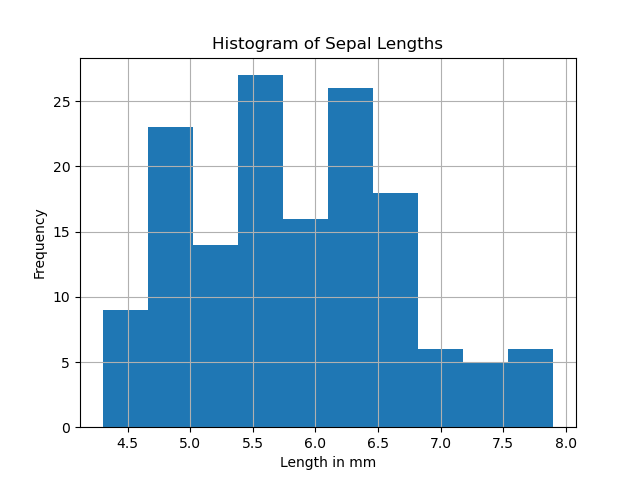
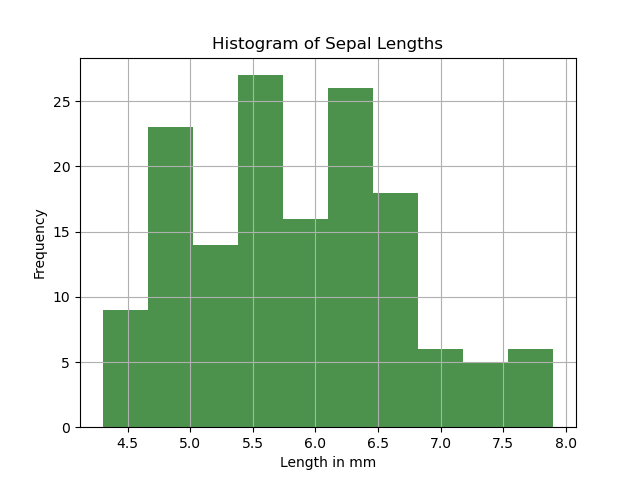
petal_length_hist and petal_width_hist created

Changed region(s): [[0.1562, 0.1562, 0.875, 0.9062]]

diff --git a/analysis.py b/analysis.py
@@ -21,7 +21,7 @@ setosa = iris[iris["species"]== "setosa"]  #seperates the species for later anal
 versicolor = iris[iris["species"]== "versicolor"]
 virginica = iris[iris["species"]== "virginica"]
 
-iris["sepal_length"].hist()  # isolates sepal length column
+iris["sepal_length"].hist(color="darkgreen", alpha=0.7)  # isolates sepal length column
 #setosa["sepal_length"].hist()
 #versicolor["sepal_length"].hist()
 #virginica["sepal_length"].hist()
@@ -31,9 +31,23 @@ plt.title("Histogram of Sepal Lengths") # Adds a title to the histogram
 plt.savefig("sepal_length_hist.png")          # saves the histogram to a PNG file
 plt.show()  # displays the histogram when the program is run
 
-iris["sepal_width"].hist()
+iris["sepal_width"].hist(color="darkgreen", alpha=0.7)
 plt.xlabel("Length in mm") 
 plt.ylabel("Frequency")
 plt.title("Histogram of Sepal Widths")  
 plt.savefig("sepal_width_hist.png")
+plt.show() 
+
+iris["petal_length"].hist(color="#5E47CB") # hexadecimal colour of random iris flower
+plt.xlabel("Length in mm") 
+plt.ylabel("Frequency")
+plt.title("Histogram of Petal Lengths")  
+plt.savefig("petal_length_hist.png")
+plt.show() 
+
+iris["petal_width"].hist(color="#5E47CB")
+plt.xlabel("Length in mm") 
+plt.ylabel("Frequency")
+plt.title("Histogram of Petal Widths")  
+plt.savefig("petal_width_hist.png")
 plt.show() 
